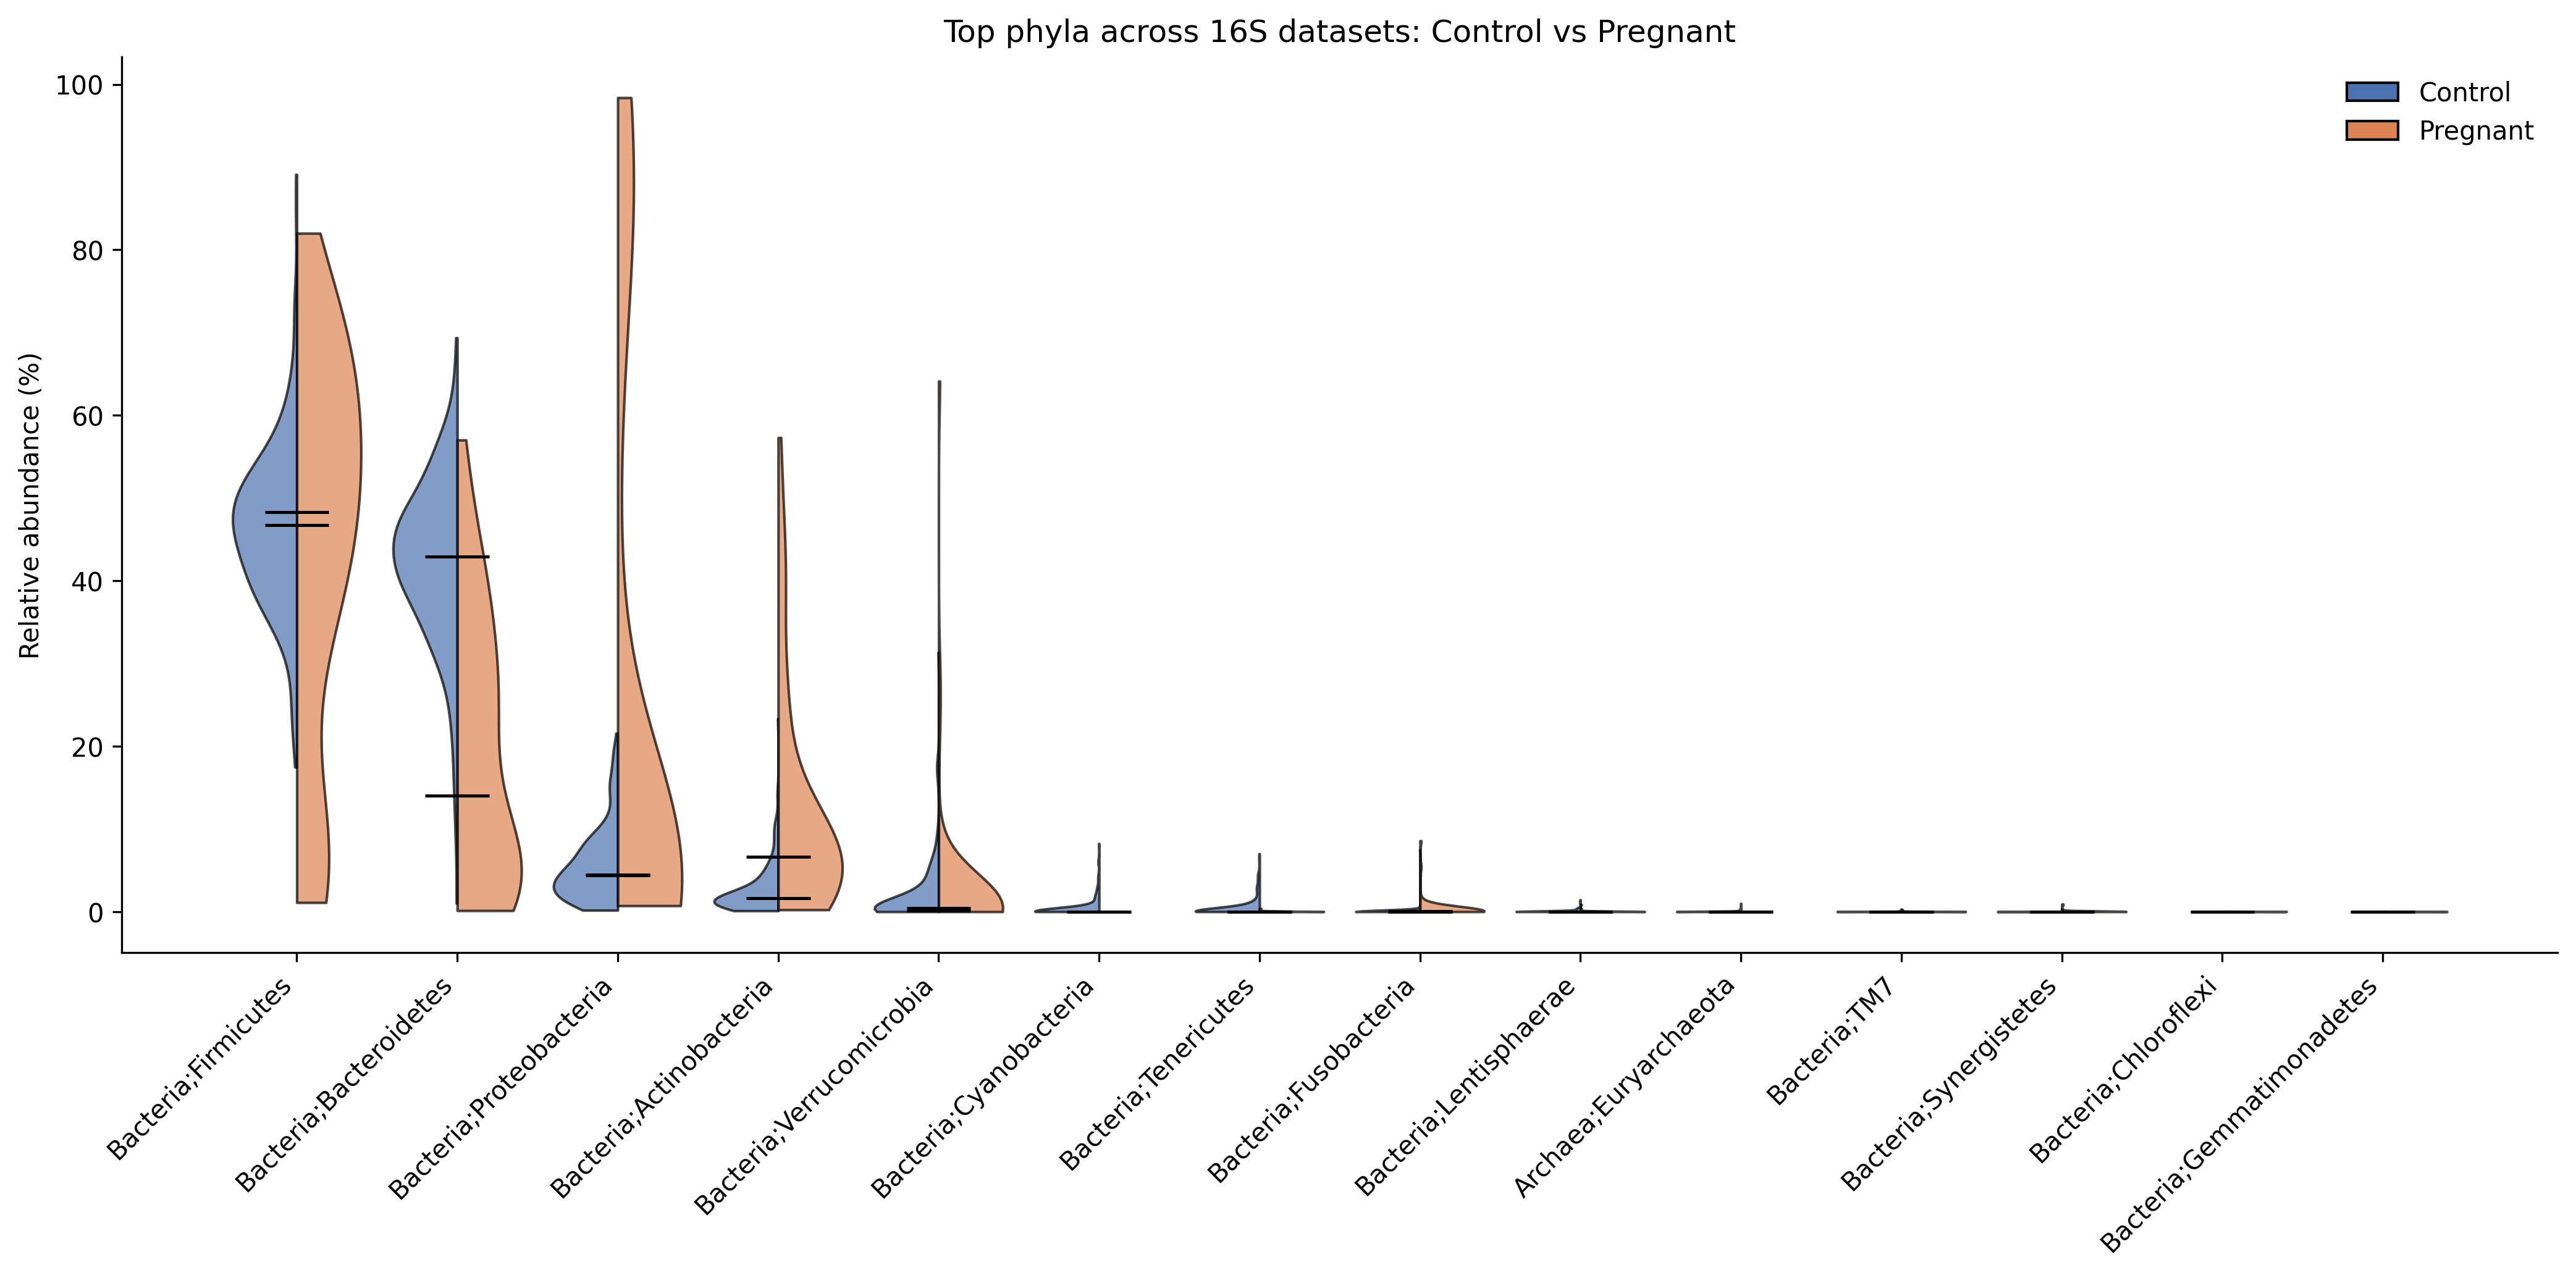
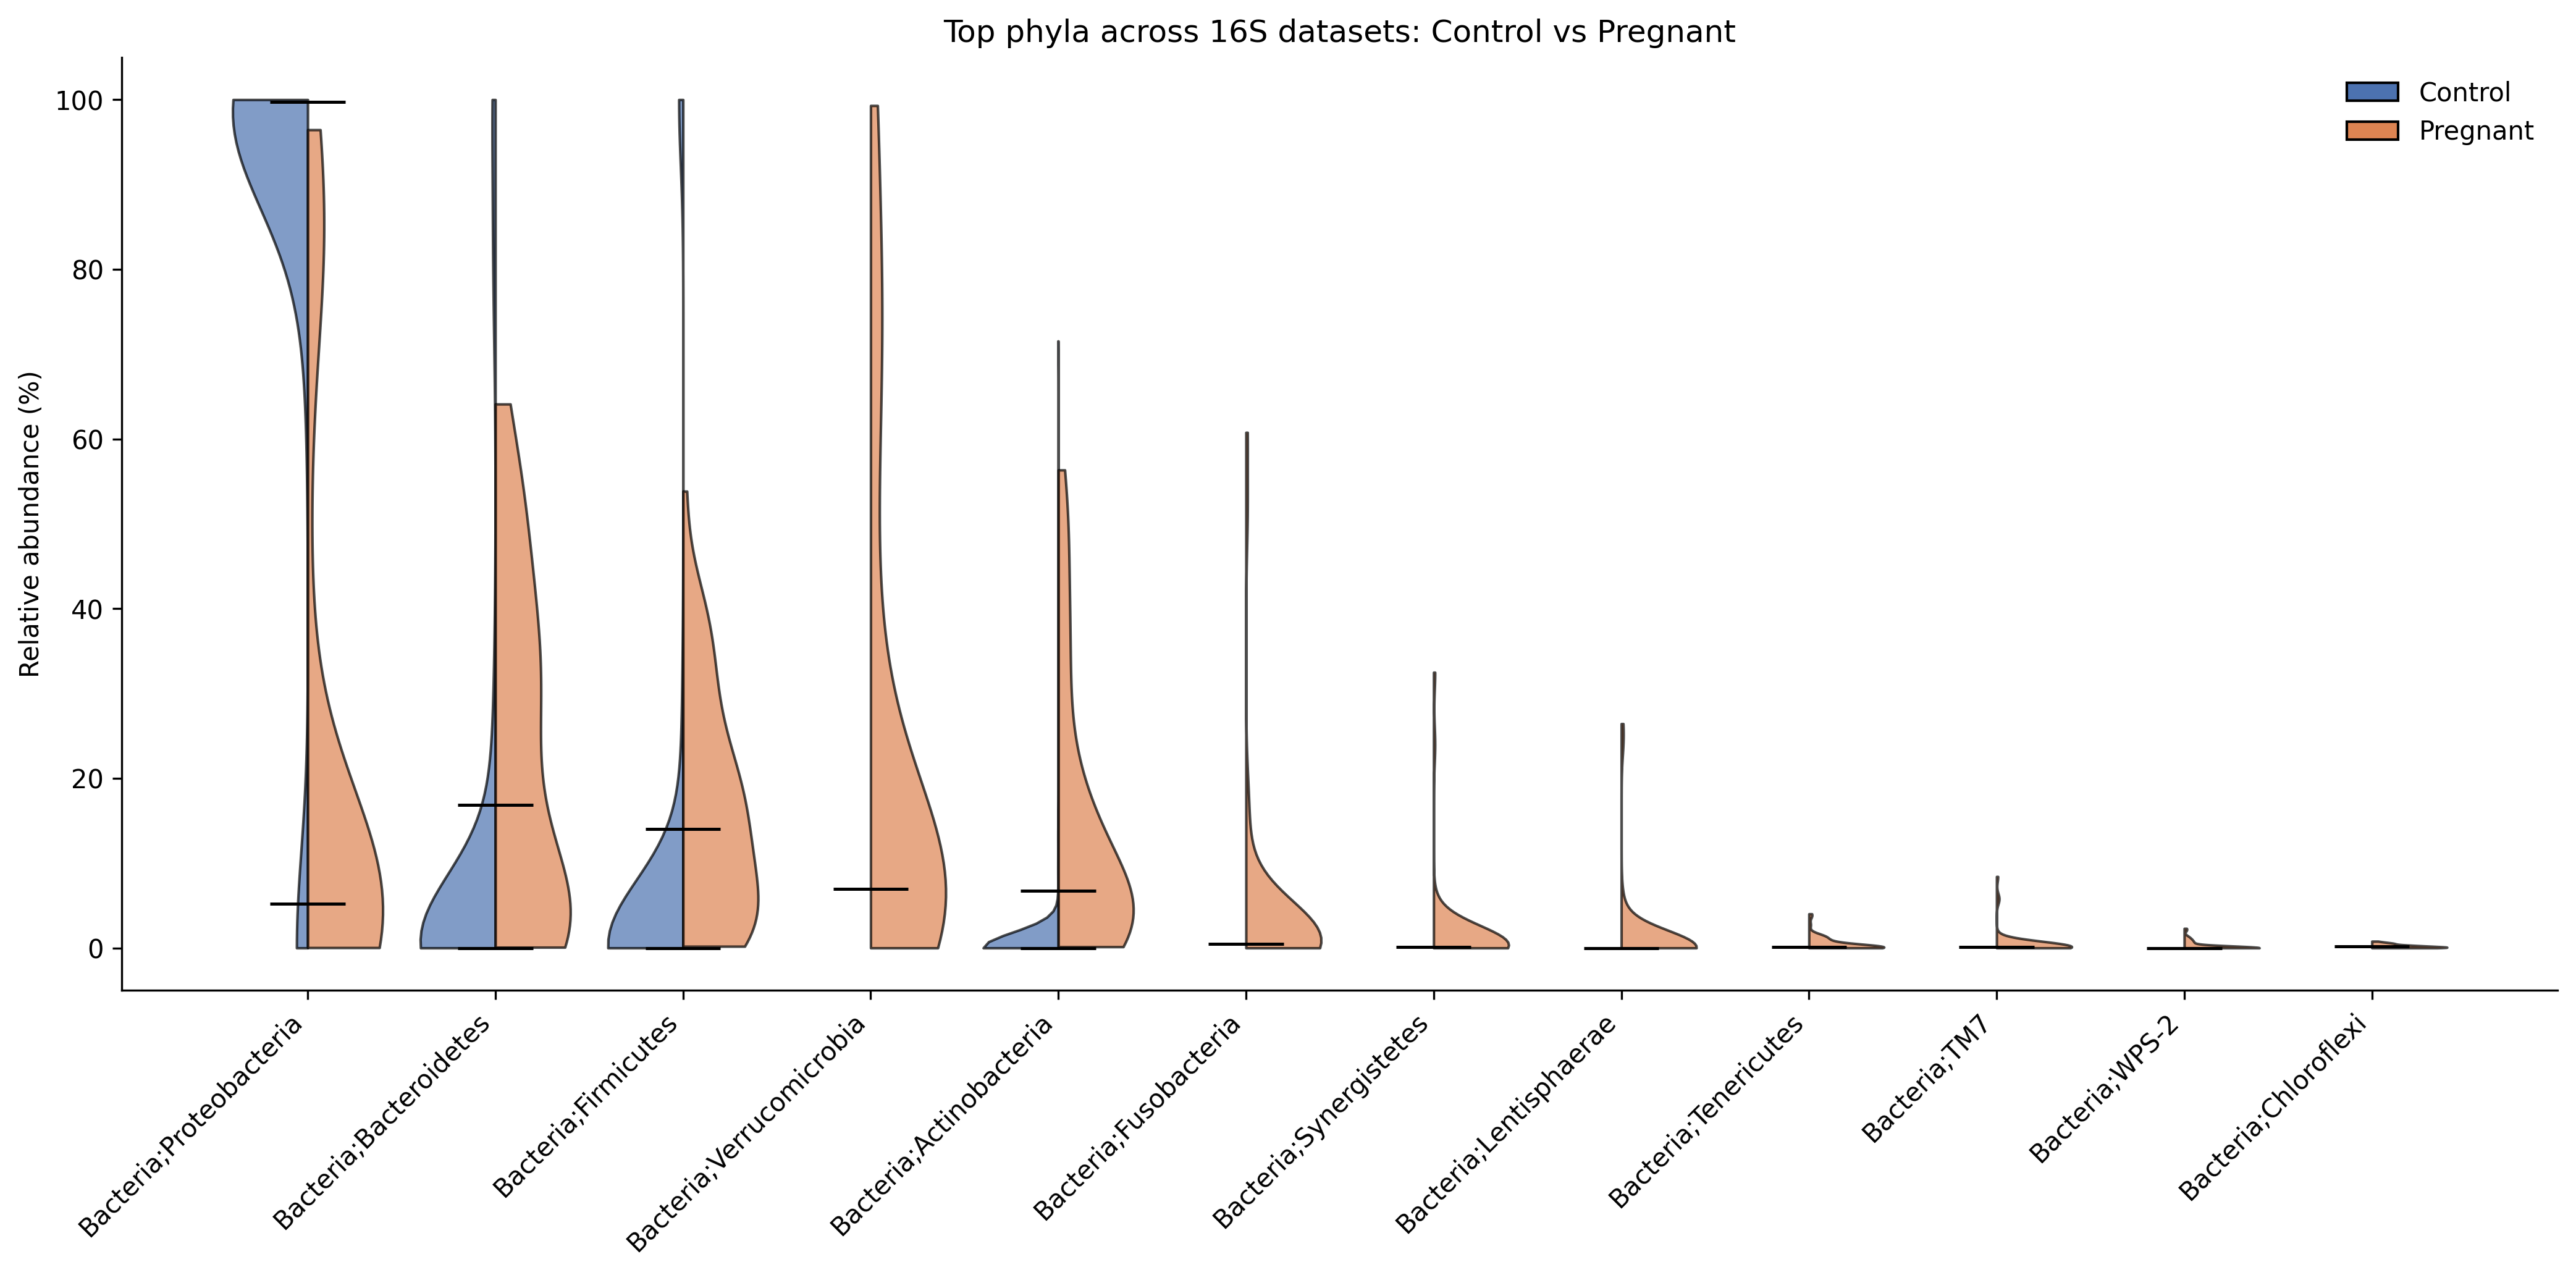
1B 16S updated (after the new preprocessing)

diff --git a/fig_1B_16S.py b/fig_1B_16S.py
@@ -5,149 +5,95 @@ import matplotlib.pyplot as plt
 from matplotlib.patches import Rectangle, Patch
 
 # ===== SETTINGS =====
-input_folder = "/home/aharonox/Yoram_Omri_Preg/datasets_after_yamas/16S"
+input_folder = "/home/aharonox/Yoram_Omri_Preg/datasets_after_MIPMLP"
 output_folder = "/home/aharonox/Yoram_Omri_Preg/1B_plots/16S"
 os.makedirs(output_folder, exist_ok=True)
 
 top_n = 12
 
-
-# ===== TAXONOMY =====
-def extract_phylum(x):
-    if pd.isna(x):
-        return None
-
-    x = str(x).replace(",", ";").replace('"', "").strip()
-    parts = []
-
-    for p in x.split(";"):
-        p = p.strip()
-        if "__" in p:
-            p = p.split("__")[-1]
-        elif ":" in p:
-            p = p.split(":")[-1]
-        if p:
-            parts.append(p)
-
-    return f"{parts[0]};{parts[1]}" if len(parts) >= 2 else None
-
-
-# ===== PREPARE 16S TABLE =====
-def prepare_16s(df):
-    id_col = df.columns[0]
-
-    tax_mask = df[id_col].astype(str).str.lower().eq("taxonomy")
-    if not tax_mask.any():
-        return None
-
-    tax_row = df.loc[df.index[tax_mask][0]].drop(id_col)
-    samples = df.loc[~tax_mask].copy()
-    samples[id_col] = samples[id_col].astype(str)
-
-    phylum_map = {c: extract_phylum(tax_row[c]) for c in df.columns if c != id_col}
-    phylum_map = {c: p for c, p in phylum_map.items() if p is not None}
-
-    if not phylum_map:
-        return None
-
-    # If paired (_1/_2), choose the side with lower Proteobacteria
-    has_1 = samples[id_col].str.endswith("_1").any()
-    has_2 = samples[id_col].str.endswith("_2").any()
-
-    if has_1 and has_2:
-        scores = {}
-
-        for suffix in ["_1", "_2"]:
-            sub = samples[samples[id_col].str.endswith(suffix)].copy()
-            counts = sub[list(phylum_map.keys())].apply(pd.to_numeric, errors="coerce").fillna(0)
-            counts.columns = [phylum_map[c] for c in counts.columns]
-            counts = counts.T.groupby(level=0).sum().T
-            rel = counts.div(counts.sum(axis=1), axis=0) * 100
-            scores[suffix] = rel.mean().get("Bacteria;Proteobacteria", 100)
-
-        keep_suffix = min(scores, key=scores.get)
-        print(f"Paired detected -> keeping {keep_suffix} | Proteobacteria scores: {scores}")
-
-        samples = samples[samples[id_col].str.endswith(keep_suffix)].copy()
-        samples[id_col] = samples[id_col].str.replace(r"_[12]$", "", regex=True)
-
-    # Build abundance table
-    counts = samples[[id_col] + list(phylum_map.keys())].copy()
-    counts = counts.set_index(id_col)
-    counts = counts.apply(pd.to_numeric, errors="coerce").fillna(0)
-
-    counts.columns = [phylum_map[c] for c in counts.columns]
-    counts = counts.T.groupby(level=0).sum().T
-    counts = counts.loc[counts.sum(axis=1) > 0]
-
-    if counts.empty:
-        return None
-
-    return counts.div(counts.sum(axis=1), axis=0) * 100
-
-
-# ===== FILES =====
+# ===== LOAD FILES =====
 csv_files = sorted(glob.glob(os.path.join(input_folder, "*.csv")))
 print(f"Found {len(csv_files)} CSV files")
 
-
-# ===== GLOBAL COLOR MAP =====
-all_top_taxa = []
+data = {}
 
 for f in csv_files:
-    rel = prepare_16s(pd.read_csv(f, low_memory=False))
-    if rel is not None:
-        all_top_taxa += rel.mean().sort_values(ascending=False).head(top_n).index.tolist()
+    file_name = os.path.splitext(os.path.basename(f))[0]
+    rel = pd.read_csv(f, index_col=0)
 
-global_taxa_order = list(dict.fromkeys(all_top_taxa))
+    # clean column names, just in case
+    rel.columns = rel.columns.astype(str).str.strip()
+    rel.columns = rel.columns.str.replace(r"\s*;\s*", ";", regex=True)
 
+    # Option: drop "Bacteria" and "Unassigned" if they exist, then re-normalize
+    rel = rel.drop(columns=["Bacteria", "Unassigned"], errors="ignore")
+    rel = rel.div(rel.sum(axis=1), axis=0) * 100
+
+
+    data[file_name] = rel
+
+# ===== GLOBAL TAXA ORDER =====
+combined = pd.concat(data.values(), axis=0).fillna(0)
+
+global_order = (
+    combined.mean(axis=0)
+    .sort_values(ascending=False)
+    .head(top_n)
+    .index
+    .tolist()
+)
+
+print("Global taxa order:")
+for t in global_order:
+    print(t)
+
+# ===== GLOBAL COLOR MAP =====
 colors = (
     list(plt.cm.tab20.colors) +
     list(plt.cm.Set3.colors) +
     list(plt.cm.Pastel1.colors)
 )
 
-global_color_map = {t: colors[i % len(colors)] for i, t in enumerate(global_taxa_order)}
+global_color_map = {t: colors[i % len(colors)] for i, t in enumerate(global_order)}
 global_color_map["Other"] = "#BDBDBD"
-
 
 # ===== MAIN LOOP =====
 all_records = []
 
-for f in csv_files:
-    file_name = os.path.splitext(os.path.basename(f))[0]
+for file_name, rel in data.items():
     print(f"\nProcessing: {file_name}")
 
-    rel = prepare_16s(pd.read_csv(f, low_memory=False))
-    if rel is None:
-        print(f"Skipping {file_name}")
-        continue
+    group = (
+        "Control" if "Control" in file_name
+        else "Pregnant" if "Pregnant" in file_name
+        else "Unknown"
+    )
 
-    top_taxa = rel.mean().sort_values(ascending=False).head(top_n).index.tolist()
+    # use the same taxa order in every file
+    taxa_in_file = [t for t in global_order if t in rel.columns]
+    rel_top = rel[taxa_in_file].copy()
 
-    group = "Control" if "Control" in file_name else "Pregnant" if "Pregnant" in file_name else "Unknown"
+    other_taxa = [c for c in rel.columns if c not in global_order]
+    if other_taxa:
+        rel_top["Other"] = rel[other_taxa].sum(axis=1)
 
-    for taxon in top_taxa:
+    # fixed column order: global taxa first, Other last
+    final_order = taxa_in_file + (["Other"] if "Other" in rel_top.columns else [])
+    rel_top = rel_top[final_order]
+
+    # sort samples like original code
+    if "Bacteria;Firmicutes" in rel_top.columns:
+        rel_top = rel_top.sort_values(by="Bacteria;Firmicutes", ascending=False)
+    else:
+        rel_top = rel_top.sort_values(by=rel_top.columns[0], ascending=False)
+
+    for taxon in taxa_in_file:
         all_records.append(pd.DataFrame({
             "dataset": file_name,
             "group": group,
             "taxon": taxon,
             "value": rel[taxon].values
         }))
-
-    rel_top = rel[top_taxa].copy()
-
-    other_taxa = [c for c in rel.columns if c not in top_taxa]
-    if other_taxa:
-        rel_top["Other"] = rel[other_taxa].sum(axis=1)
-
-    rel_top = rel_top[rel_top.mean(axis=0).sort_values(ascending=False).index]
-
-    if "Bacteria;Firmicutes" in rel_top.columns:
-        rel_top = rel_top.sort_values(by="Bacteria;Firmicutes", ascending=False)
-
-    final_order = rel_top.mean(axis=0).sort_values(ascending=False).index.tolist()
-    rel_top = rel_top[final_order]
 
     color_map = {t: global_color_map[t] for t in rel_top.columns}
 
@@ -234,13 +180,8 @@ if all_records:
     violin_df = pd.concat(all_records, ignore_index=True)
     violin_df = violin_df[violin_df["group"].isin(["Control", "Pregnant"])]
 
-    taxon_order = (
-        violin_df.groupby("taxon")["value"]
-        .mean()
-        .sort_values(ascending=False)
-        .index
-        .tolist()
-    )
+    # same order as stacked plots
+    taxon_order = [t for t in global_order if t in violin_df["taxon"].unique()]
 
     fig, ax = plt.subplots(figsize=(max(14, len(taxon_order) * 0.8), 7))
 